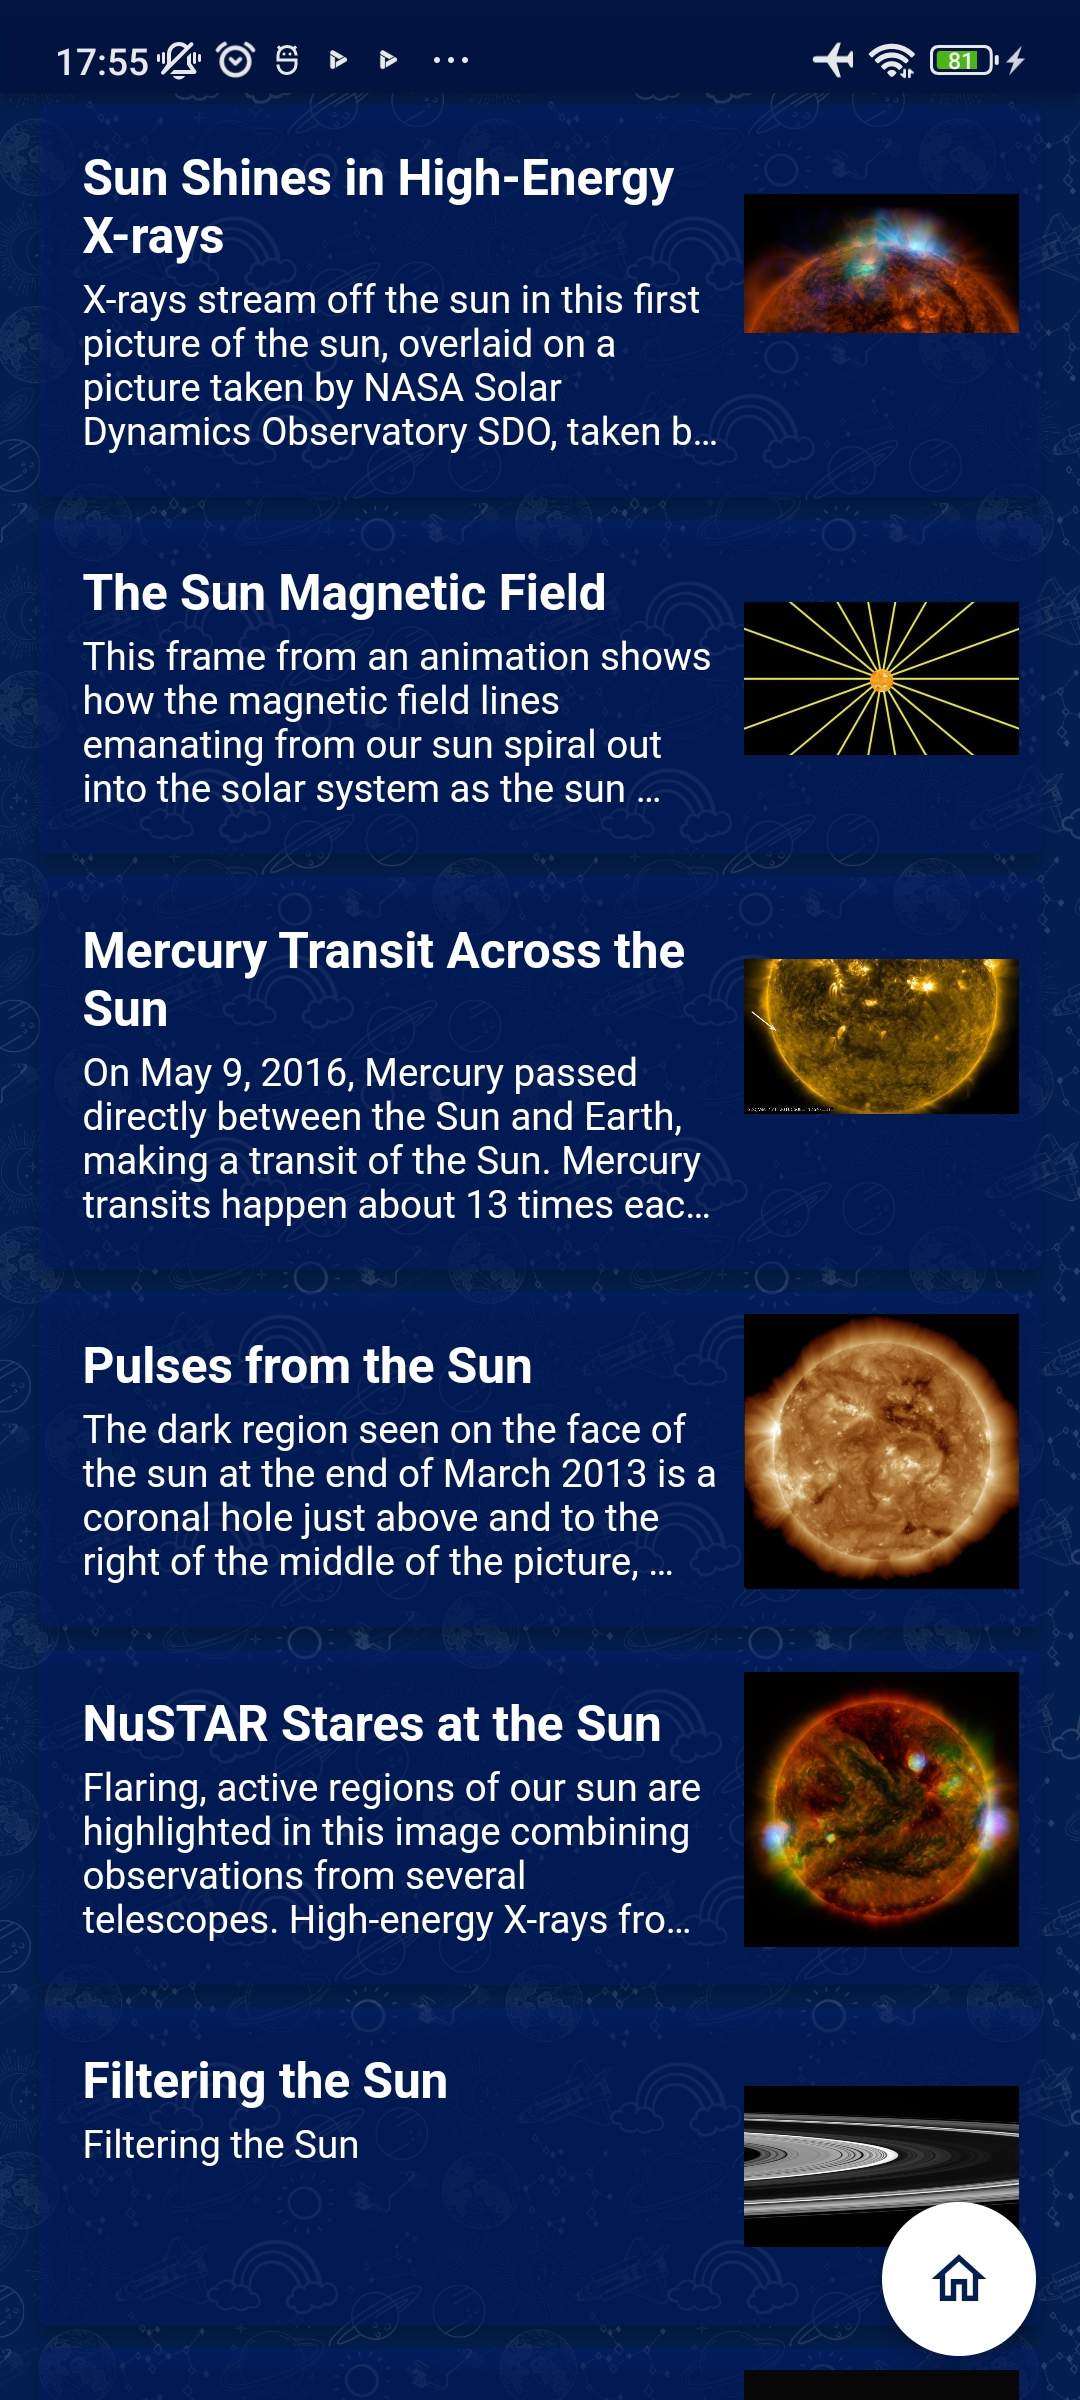
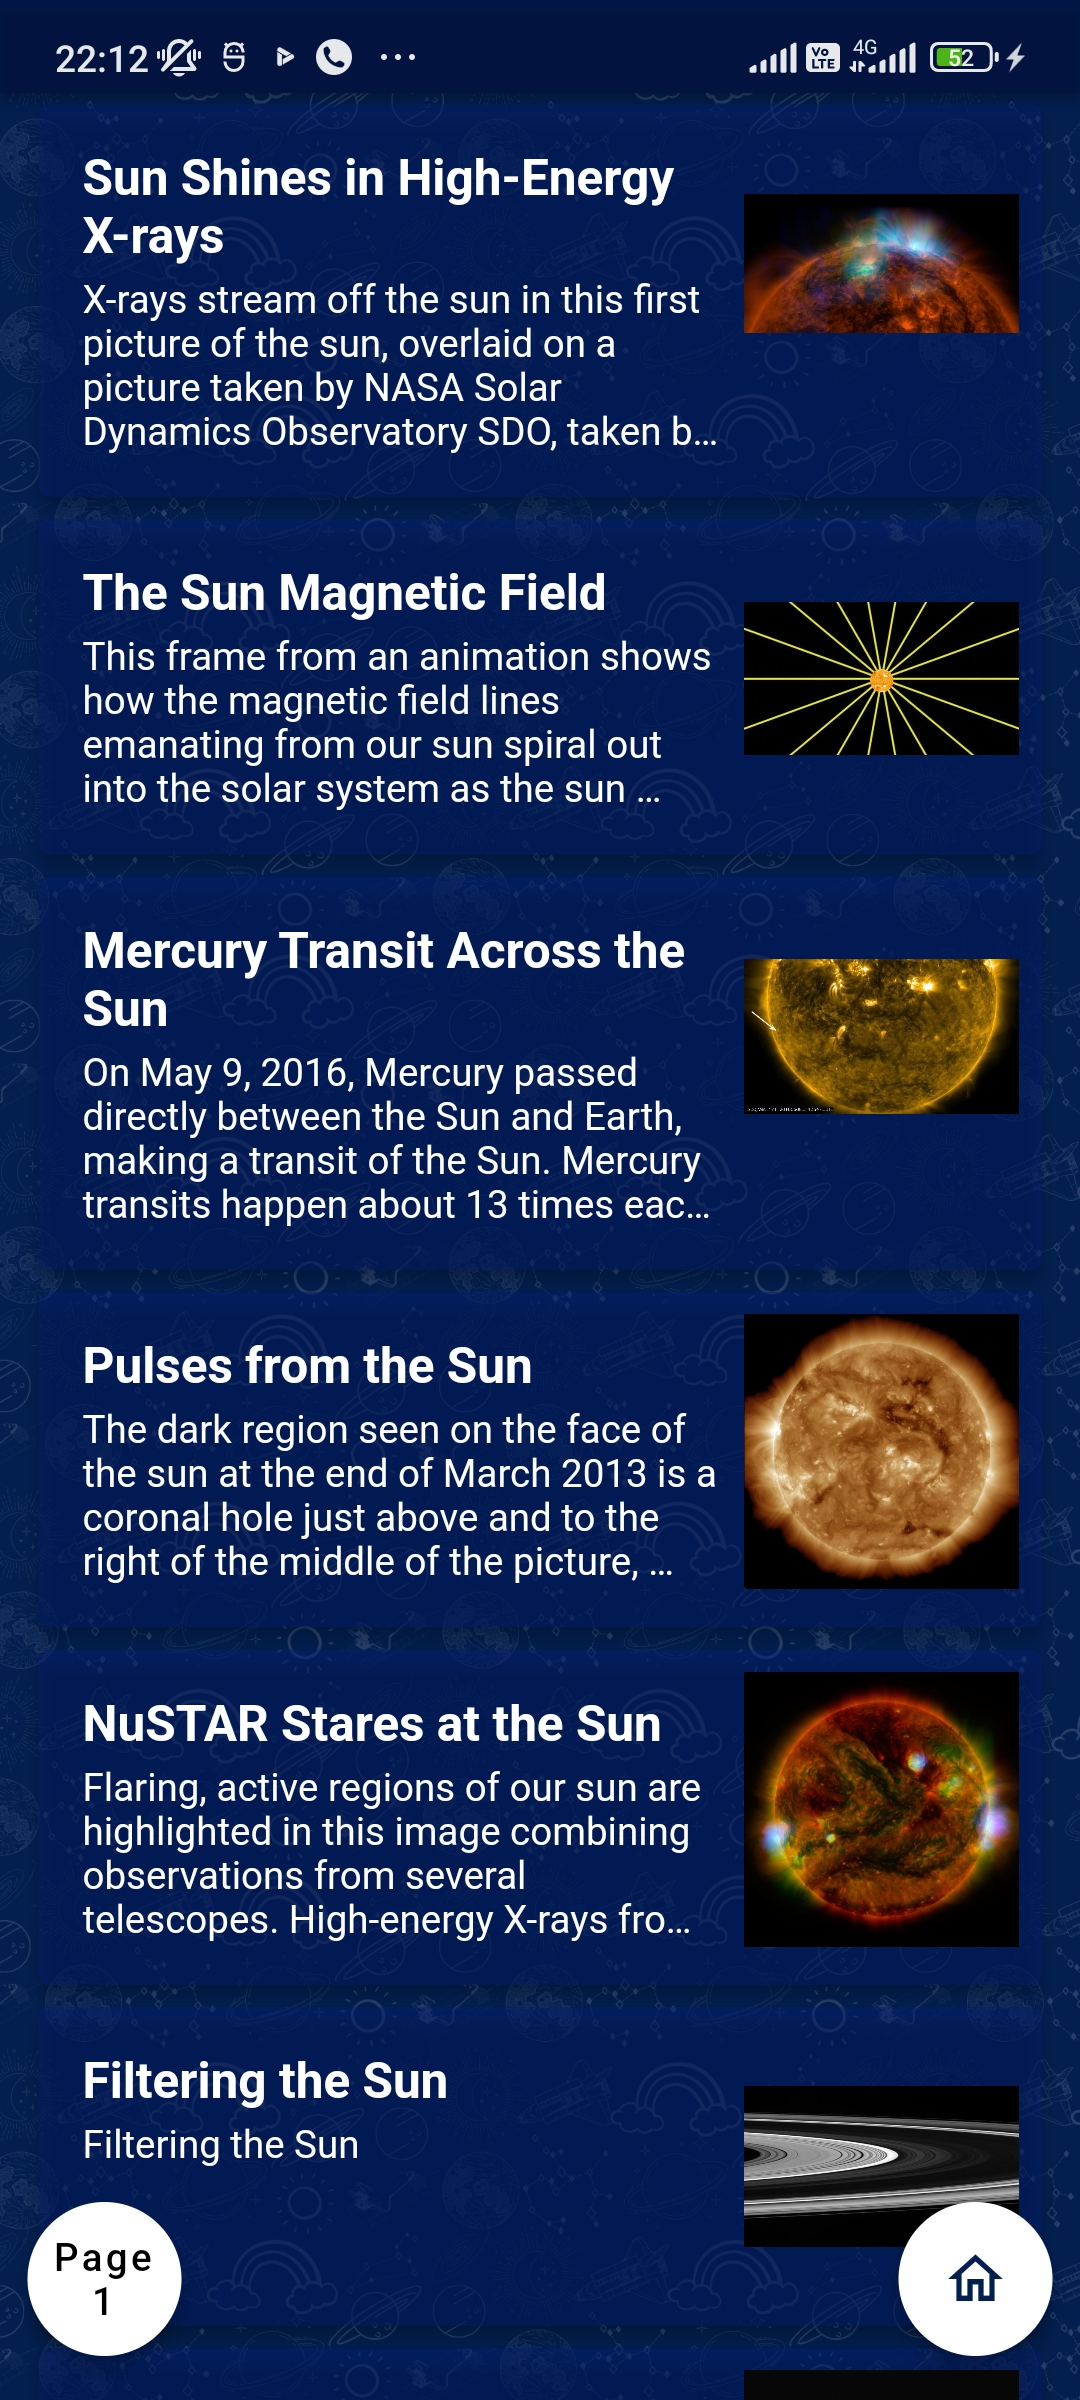
Updated Readme

diff --git a/Readme.md b/Readme.md
@@ -1,4 +1,4 @@
-# NASA Images (Under Development)
+# NASA Images
 ### Mobile Application - Flutter
 
 This mobile application was created for the NASA image library using Flutter.
@@ -13,18 +13,17 @@ This mobile application was created for the NASA image library using Flutter.
  - Search with Staring Year & Ending Year
  - Go through the pages
 
-
 # ScreenShots
 
 ### Light Theme
 ![Screenshot](./ScreenShots/L1.jpg) Splash Screen | ![Screenshot](./ScreenShots/L2.jpg) Home | ![Screenshot](./ScreenShots/L3.jpg) Home with Filters
 :-------------------------:|:-------------------------:|:-------------------------:
-![Screenshot](./ScreenShots/L4.jpg) Content List View | ![Screenshot](./ScreenShots/L5.jpg) Single Content View | ![Screenshot](./ScreenShots/L6.jpg) Showing SnackBar
+![Screenshot](./ScreenShots/L4.jpg) Content List View | ![Screenshot](./ScreenShots/L5.jpg) Page Navigation | ![Screenshot](./ScreenShots/L6.jpg) Single Content View
 
 ### Dark Theme
 ![Screenshot](./ScreenShots/D1.jpg) Splash Screen | ![Screenshot](./ScreenShots/D2.jpg) Home | ![Screenshot](./ScreenShots/D3.jpg) Home with Filters
 :-------------------------:|:-------------------------:|:-------------------------:
-![Screenshot](./ScreenShots/D4.jpg) Content List View | ![Screenshot](./ScreenShots/D5.jpg) Single Content View | ![Screenshot](./ScreenShots/D6.jpg) Showing SnackBar
+![Screenshot](./ScreenShots/D4.jpg) Content List View | ![Screenshot](./ScreenShots/D5.jpg) Page Navigation | ![Screenshot](./ScreenShots/D6.jpg) Single Content View
 
 
 
